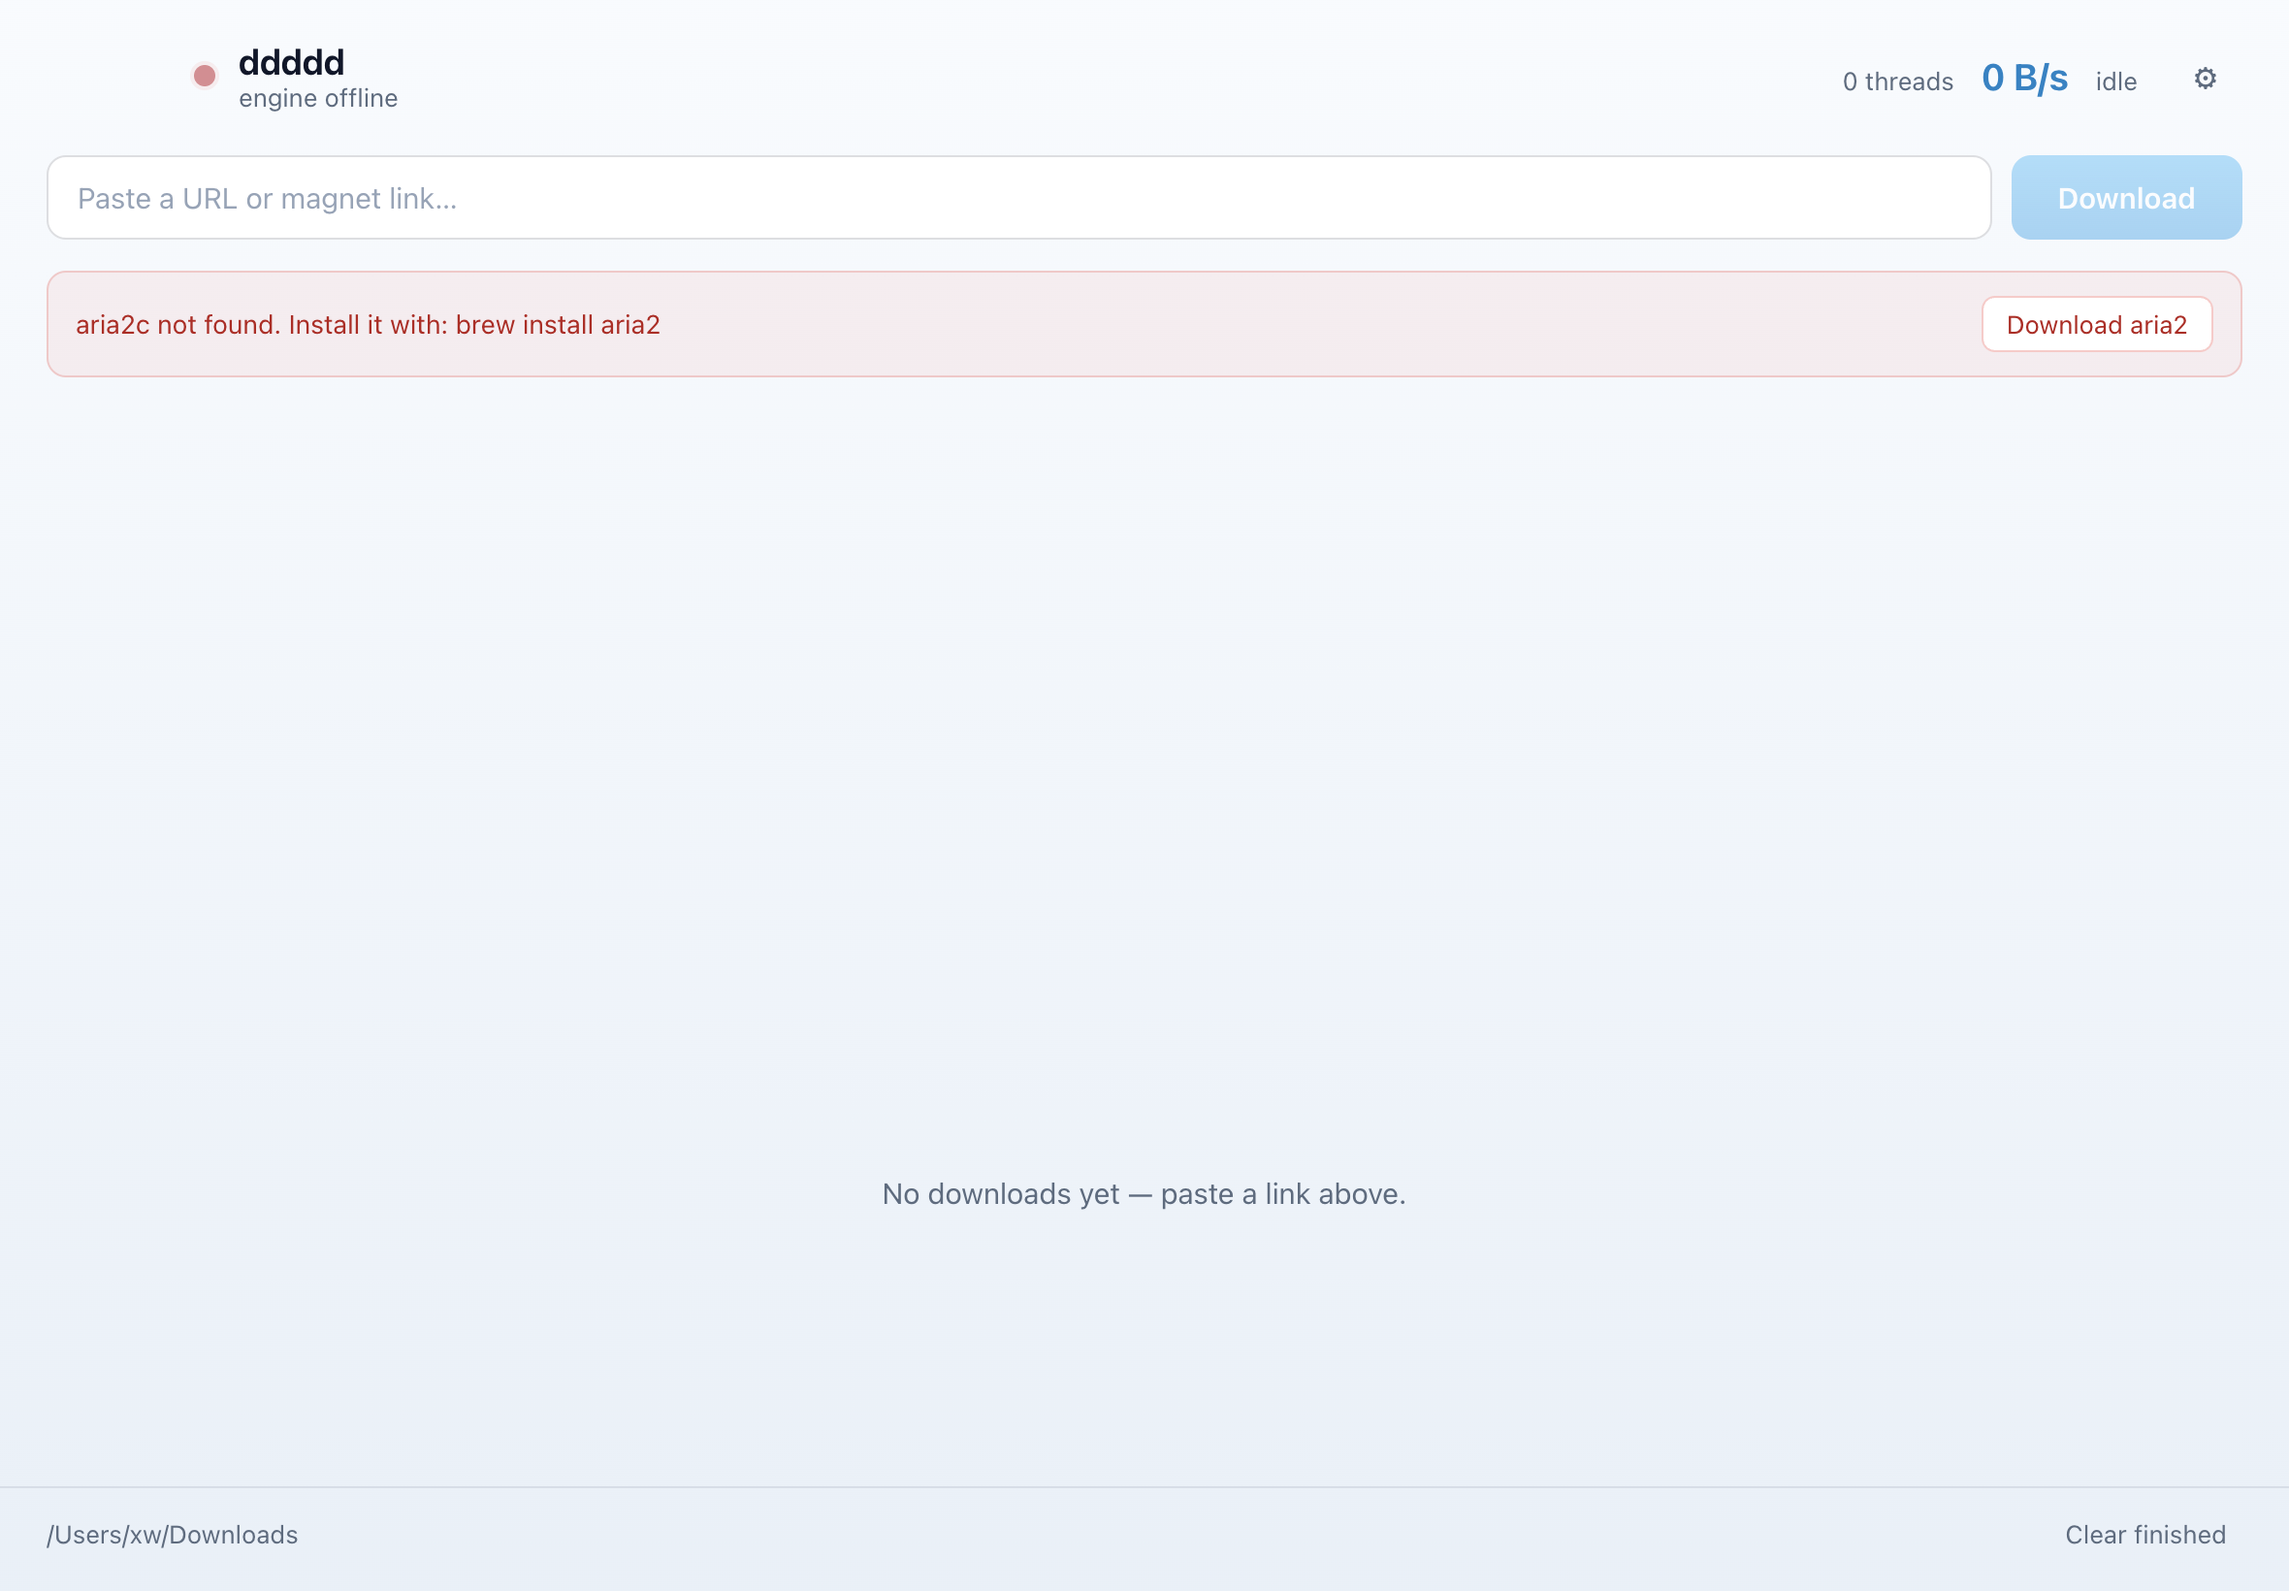
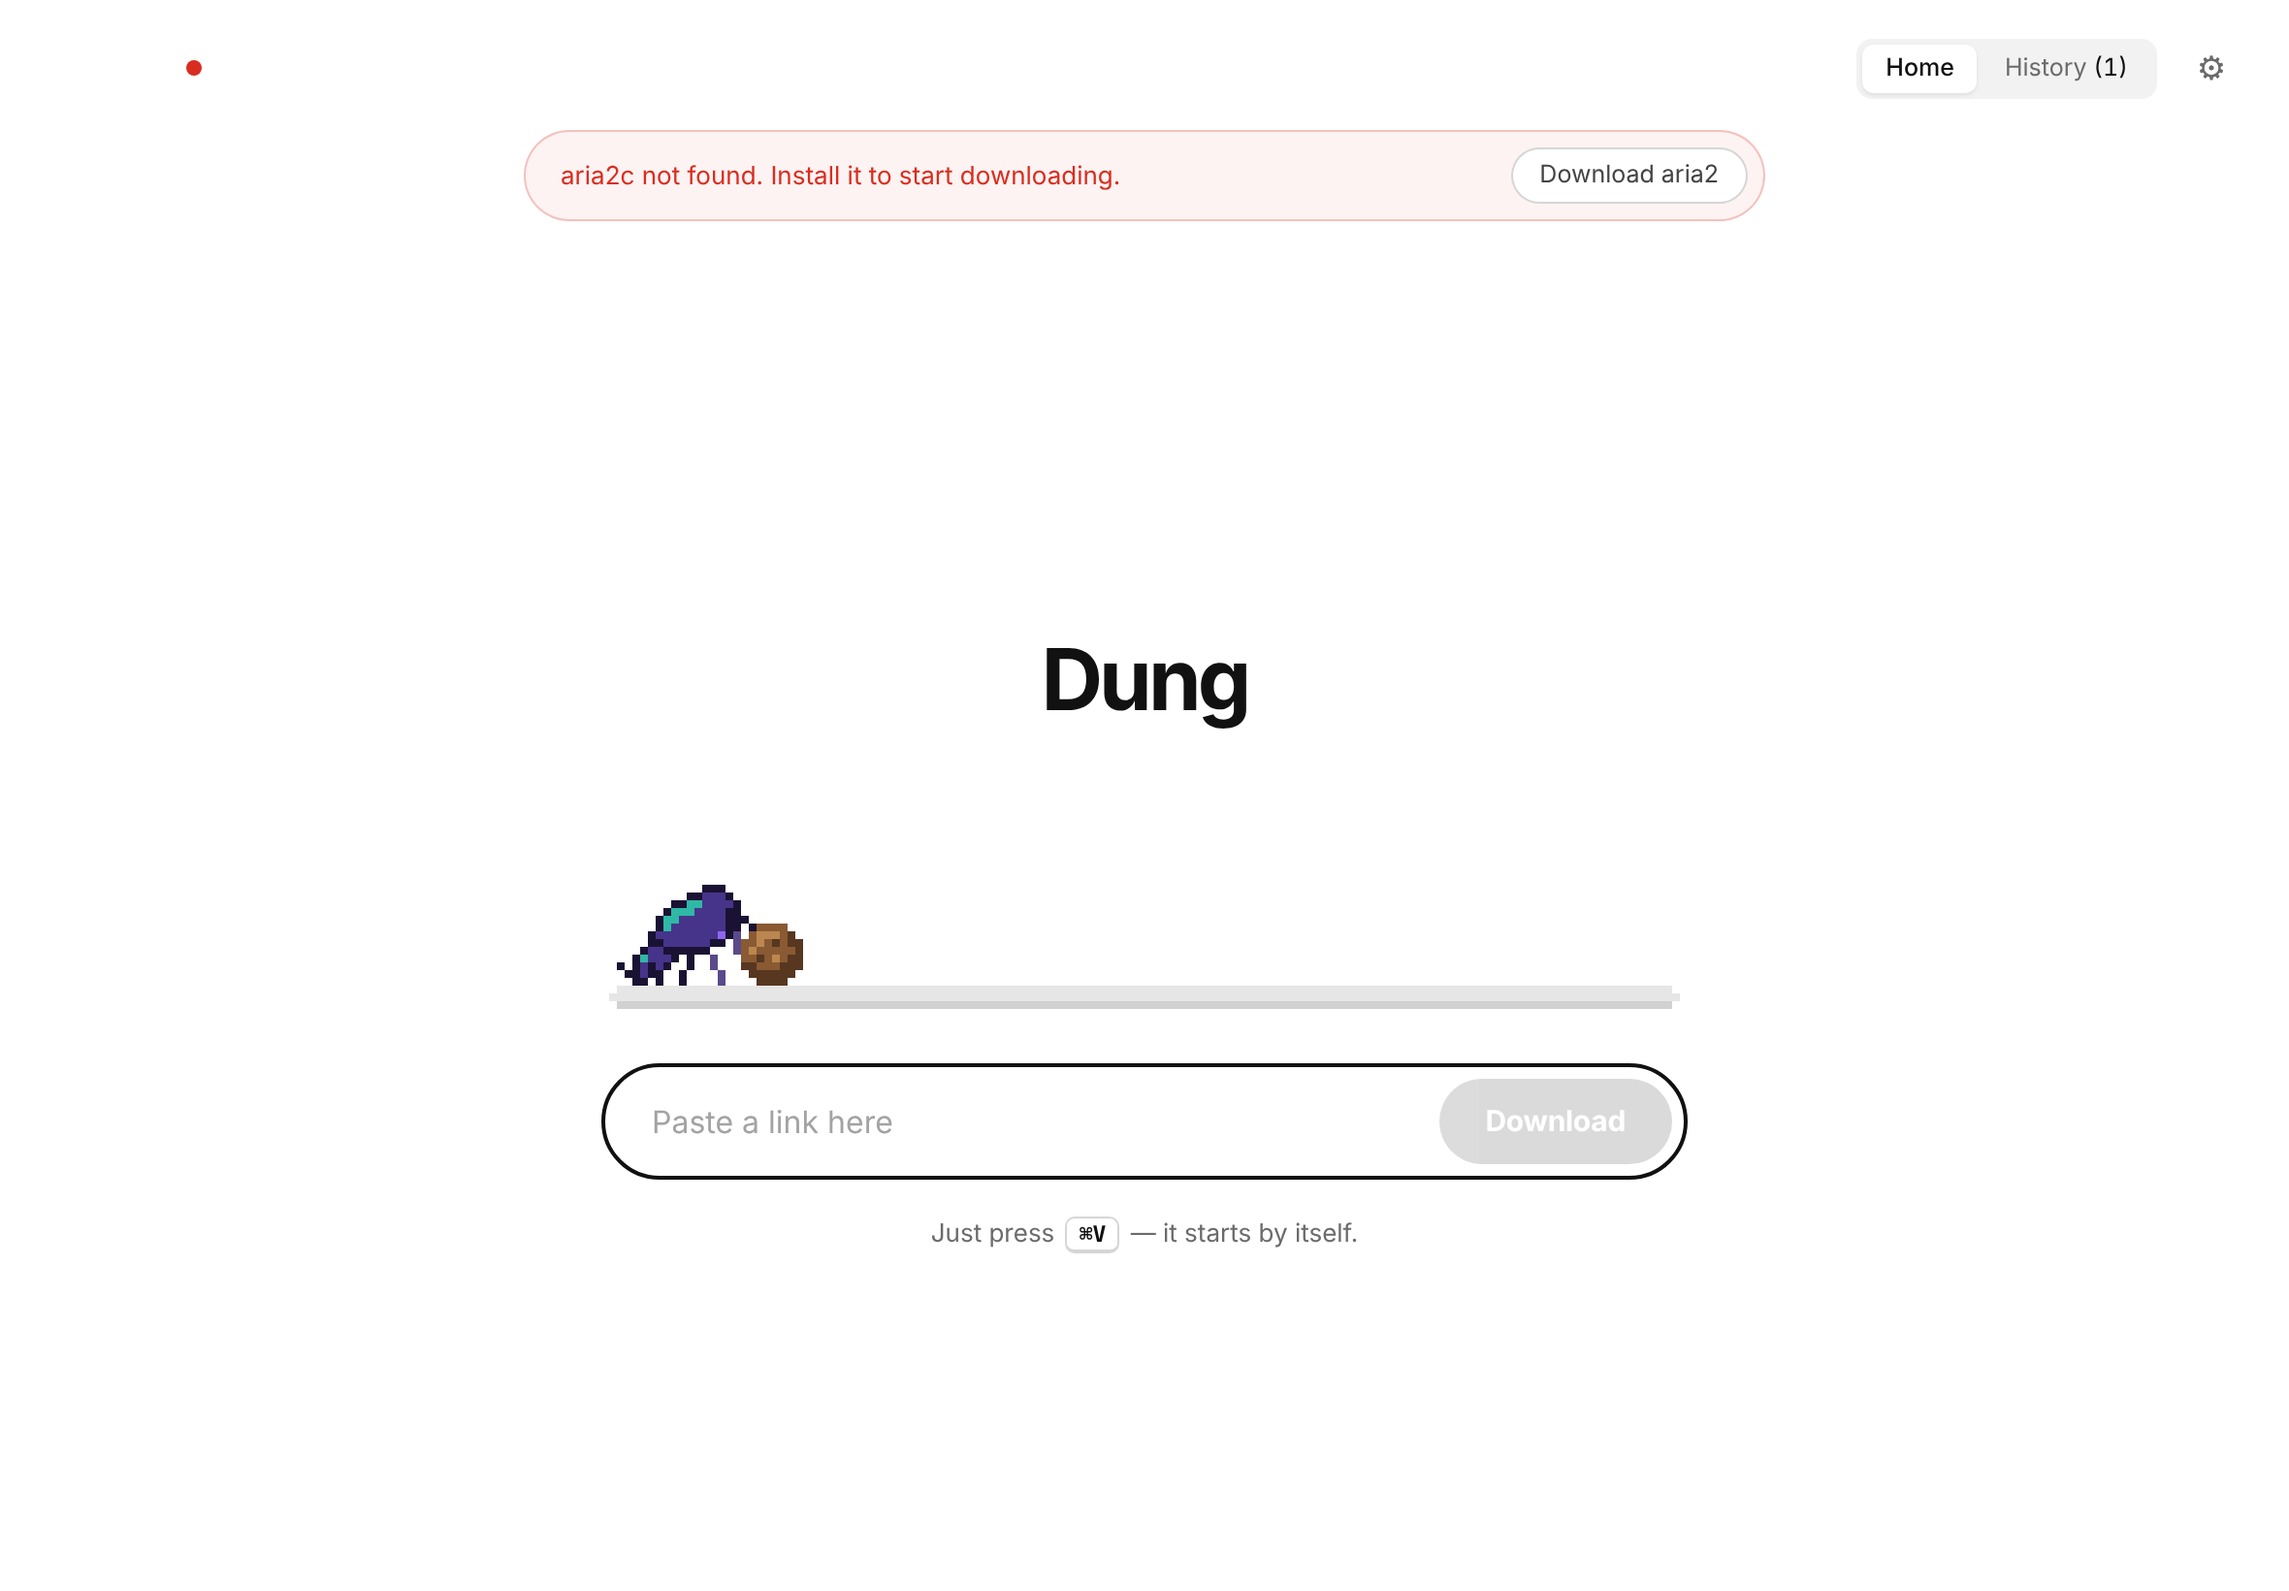
Polish chrome, keep Download disabled while the engine is offline, refresh docs
Hide the ready dot and binary path from the titlebar, round the banners and
dialogs to match the home page, stop the paste box from re-enabling Download
when aria2 is not running, and regenerate the README screenshots.

Claude-Session: https://claude.ai/code/session_01LK8Ba89RRevm52nkxgQ2f9

diff --git a/src/renderer/renderer.js b/src/renderer/renderer.js
@@ -353,13 +353,14 @@ function setEngine(status) {
 
   if (status.ok) {
     dot.dataset.state = 'ready';
-    label.textContent = `aria2 ${status.info && status.info.binary ? status.info.binary : 'ready'}`;
+    label.textContent = 'ready';
+    label.title = status.info && status.info.binary ? `aria2 · ${status.info.binary}` : '';
     banner.hidden = true;
     installBtn.hidden = true;
   } else {
     const error = status.error || 'Download engine is not running';
     dot.dataset.state = 'error';
-    label.textContent = 'engine offline';
+    label.textContent = 'not ready';
     errorRevealPath = '';
     message.textContent = error;
     message.title = '';
@@ -372,8 +373,8 @@ function setEngine(status) {
     installBtn.textContent = 'Download aria2';
   }
 
-  const addButton = $('#add-btn');
-  addButton.disabled = !status.ok;
+  engineOk = Boolean(status.ok);
+  syncAddBtn();
 }
 
 /* ---------- actions ---------- */
@@ -424,8 +425,10 @@ $('#url-input').addEventListener('paste', () => {
 
 $('#url-input').addEventListener('input', syncAddBtn);
 
+let engineOk = false;
+
 function syncAddBtn() {
-  $('#add-btn').disabled = !$('#url-input').value.trim();
+  $('#add-btn').disabled = !engineOk || !$('#url-input').value.trim();
 }
 
 // ⌘V / Ctrl+V anywhere on the page works too, even if the box isn't focused.

diff --git a/src/renderer/styles.css b/src/renderer/styles.css
@@ -1254,3 +1254,64 @@ button:focus-visible {
   border-radius: 999px;
   padding: 10px 26px;
 }
+
+/* ---------- chrome: quieter titlebar, friendlier banners and dialogs ---------- */
+
+.dot[data-state='ready'] {
+  display: none;
+}
+
+.app[data-mode='idle'] .brand h1 {
+  visibility: visible;
+  opacity: 0;
+}
+
+.brand p {
+  font-size: 11.5px;
+}
+
+.error,
+.update-banner {
+  border-radius: 999px;
+  padding: 8px 8px 8px 18px;
+  width: min(640px, calc(100% - 48px));
+  margin: 0 auto 12px;
+}
+
+.error .mini,
+.update-banner .mini {
+  border-radius: 999px;
+  min-width: 0;
+  padding: 6px 14px;
+}
+
+.update-banner #update-download {
+  background: var(--text);
+  border-color: var(--text);
+  color: #ffffff;
+}
+
+.modal {
+  border-radius: 20px;
+  padding: 26px;
+}
+
+.modal h3 {
+  font-size: 19px;
+  letter-spacing: -0.01em;
+}
+
+.modal .primary,
+.conflict-actions .primary {
+  border-radius: 999px;
+  padding: 10px 24px;
+}
+
+.conflict-actions .ghost {
+  border-radius: 999px;
+  padding: 9px 18px;
+}
+
+.primary.danger {
+  background: var(--danger);
+}

diff --git a/README.md b/README.md
@@ -1,6 +1,6 @@
 # Dung
 
-A native macOS download manager powered by [aria2](https://aria2.github.io/) — with a pixel dung beetle that rolls a growing ball across the progress bar as your files come down, and a white-on-white interface that stays out of the way.
+A native macOS download manager powered by [aria2](https://aria2.github.io/) — with a pixel dung beetle that rolls a growing ball across the progress bar as your files come down, and a black-on-white interface built around one move: paste a link, it downloads.
 
 <p>
   <img alt="release" src="https://img.shields.io/github/v/release/xfanwu/ddddd?style=flat-square&color=0ea5e9">
@@ -16,7 +16,7 @@ A native macOS download manager powered by [aria2](https://aria2.github.io/) —
 
 ![Dung main window](docs/screenshot-main.png)
 
-*Idle: the beetle waits at the start of the track.*
+*Idle: paste a link anywhere in the window and it starts by itself.*
 
 ![idle](docs/screenshot-idle.png)
 
